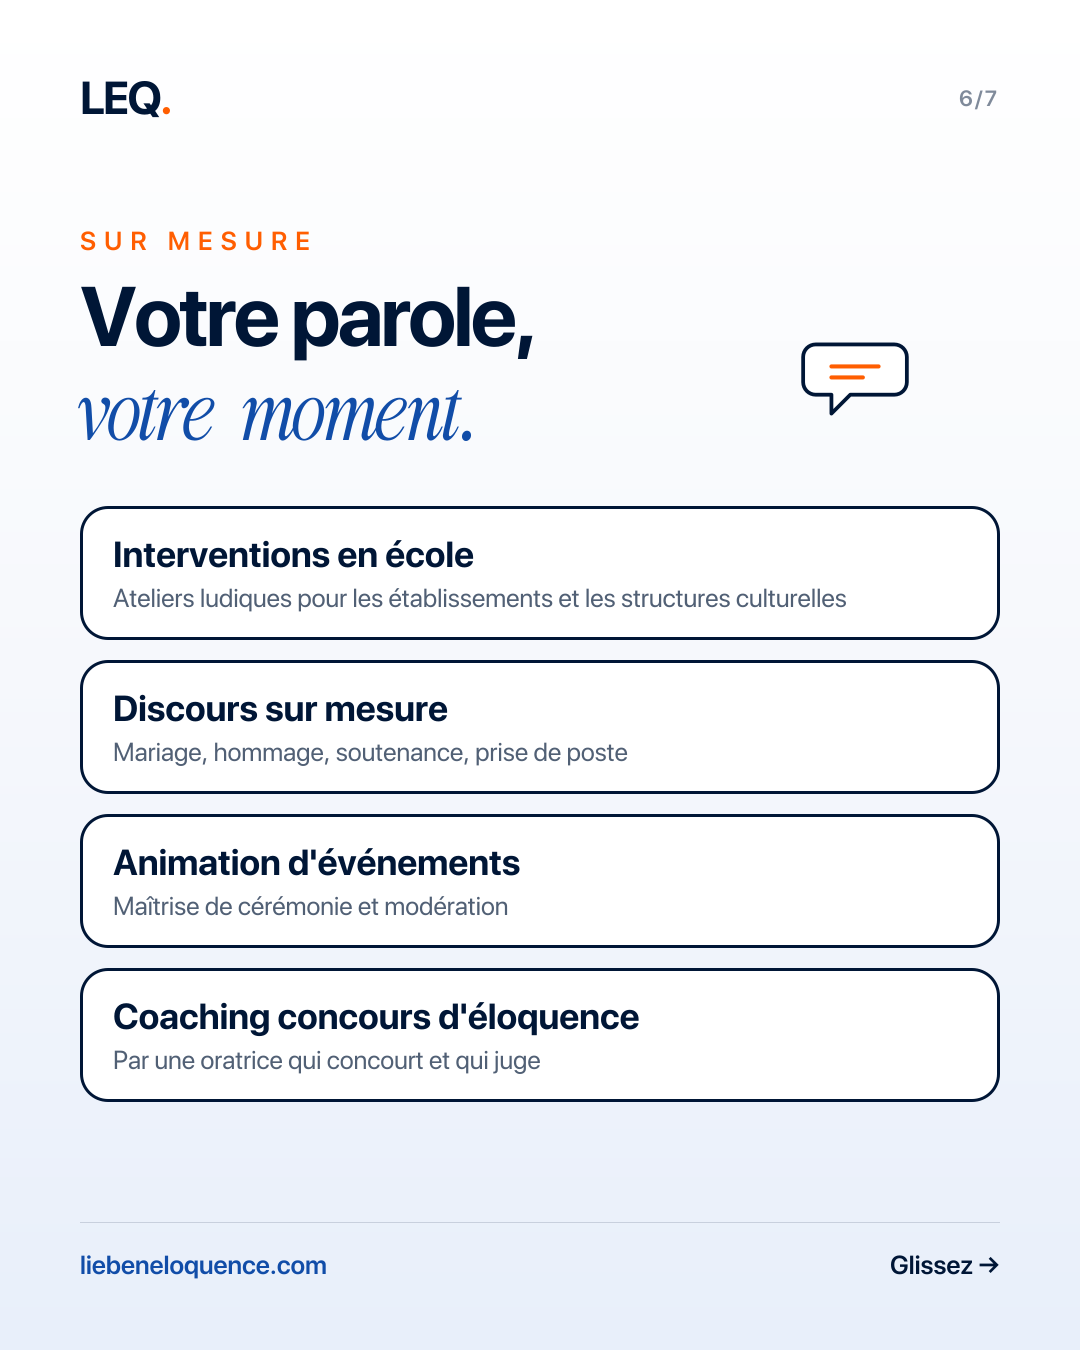
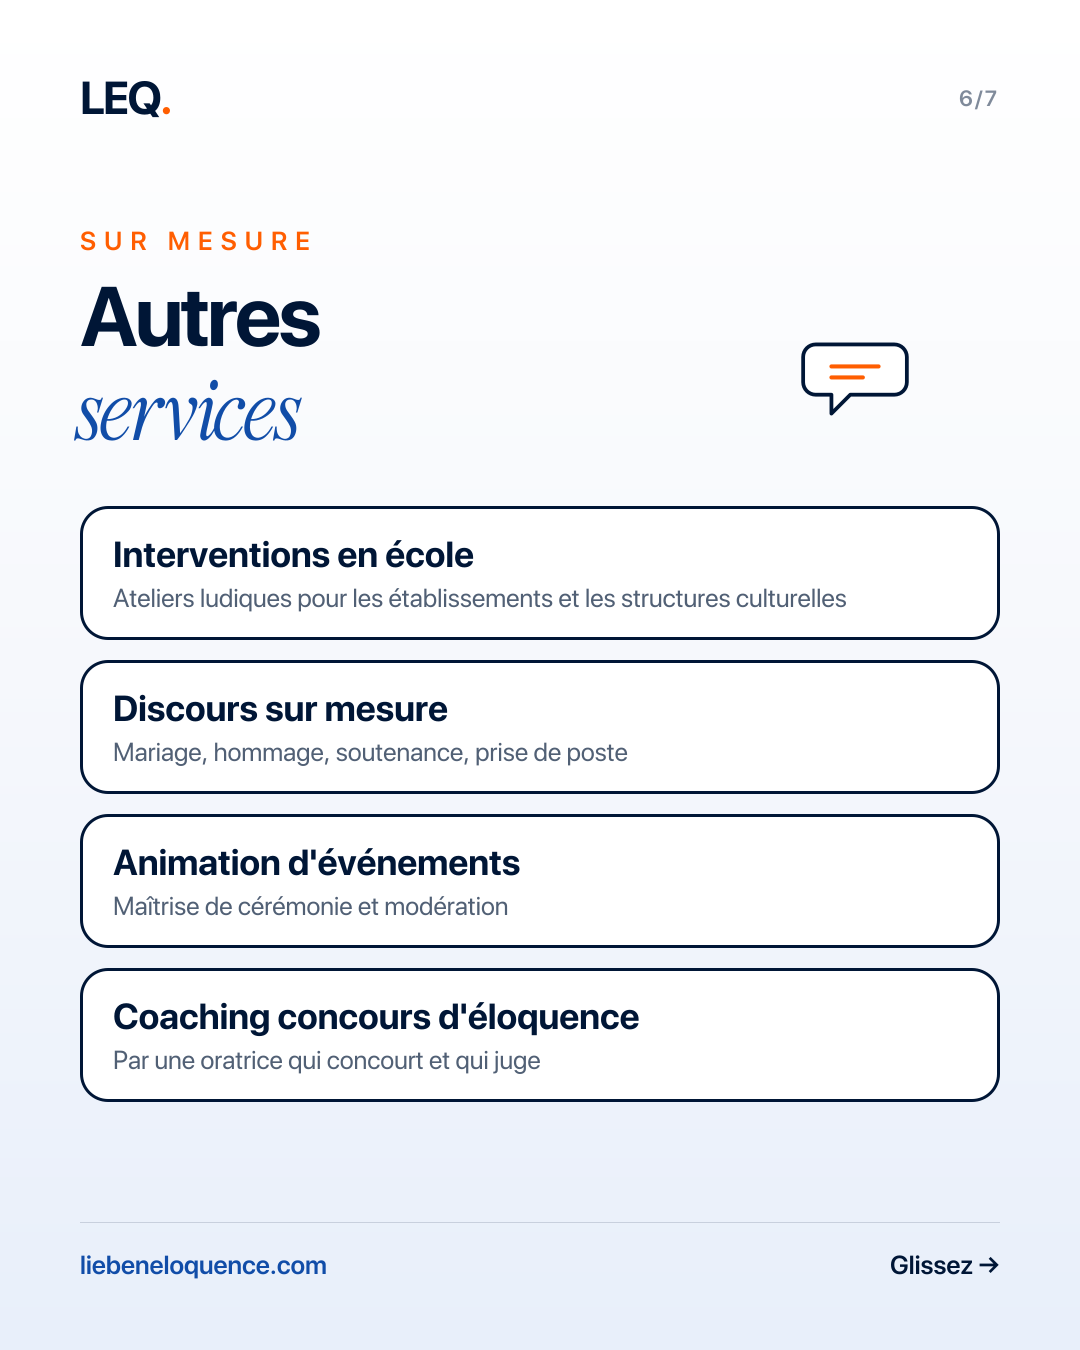
Invitation communauté en bleu et plus sobre (micro orange), section « Autres services », carrousel mis à jour

Changed region(s): [[0.0611, 0.1867, 0.4889, 0.3422]]

diff --git a/src/components/communaute/CommunityPopup.tsx b/src/components/communaute/CommunityPopup.tsx
@@ -3,7 +3,7 @@
 import Link from "next/link";
 import { usePathname } from "next/navigation";
 import { useEffect, useRef, useState } from "react";
-import { Heart, MicDoodle, Sparkle } from "@/components/ui/Doodles";
+import { MicDoodle } from "@/components/ui/Doodles";
 
 /* Invitation à la communauté, une fois par visite :
    1. carte au centre de l'écran, fond flouté (2,5 s après l'arrivée) ;
@@ -82,17 +82,17 @@ export function CommunityPopup({ price, availability }: { price: string; availab
         <button
           type="button"
           onClick={() => setView("open")}
-          className="flex cursor-pointer items-center gap-2 rounded-full border-2 border-ink bg-white py-2 pr-4 pl-2.5 text-[14px] font-bold text-ink"
-          style={{ boxShadow: "4px 4px 0 #FFBD59" }}
+          className="flex cursor-pointer items-center gap-2 rounded-full border-0 py-2 pr-4 pl-2.5 text-[14px] font-bold text-white"
+          style={{ background: "linear-gradient(165deg,#0B3070,#114DA8)", boxShadow: "0 14px 30px -12px rgba(0,22,54,.7)" }}
         >
-          <MicDoodle width={22} height={28} stand="#FF5E01" />
+          <MicDoodle width={22} height={28} body="#FF5E01" stand="#FF5E01" />
           Rejoindre la <span className="serif font-normal text-orange">LEQ&apos;FAM</span>
         </button>
         <button
           type="button"
           onClick={finish}
           aria-label="Masquer l'invitation"
-          className="-ml-2 grid h-7 w-7 -translate-y-4 cursor-pointer place-items-center rounded-full border-0 bg-ink text-white"
+          className="-ml-2 grid h-7 w-7 -translate-y-4 cursor-pointer place-items-center rounded-full border-2 border-white bg-ink text-white"
         >
           <svg width="12" height="12" viewBox="0 0 24 24" fill="none" stroke="currentColor" strokeWidth="2.6" strokeLinecap="round" aria-hidden="true">
             <path d="M18 6 6 18M6 6l12 12" />
@@ -109,29 +109,27 @@ export function CommunityPopup({ price, availability }: { price: string; availab
       onClick={(e) => e.target === e.currentTarget && dialog.current?.close()}
       className="community-popup m-auto w-[min(420px,calc(100vw-40px))] overflow-visible border-0 bg-transparent p-0"
     >
-      <div className="relative rounded-[28px] bg-white px-7 pt-9 pb-7 text-center text-ink" style={{ boxShadow: "8px 8px 0 #FFBD59, 0 40px 80px -30px rgba(0,0,0,.6)", border: "2px solid #001636" }}>
-        <MicDoodle className="bob absolute" width={62} height={80} stand="#FF5E01" style={{ top: -52, left: "50%", marginLeft: -31 }} />
-        <Sparkle className="wiggle absolute" size={36} style={{ top: -14, left: 24 }} />
-        <Heart className="wiggle absolute" size={28} style={{ bottom: -10, right: 30 }} />
-        <button type="button" onClick={() => dialog.current?.close()} aria-label="Fermer" className="absolute top-3.5 right-3.5 grid h-9 w-9 cursor-pointer place-items-center rounded-full border-0 bg-cloud text-ink hover:bg-ink hover:text-white">
+      <div className="relative rounded-[28px] px-7 pt-10 pb-7 text-center text-white" style={{ background: "linear-gradient(165deg,#0B3070 0%,#114DA8 100%)", boxShadow: "0 40px 80px -30px rgba(0,0,0,.6)", border: "1px solid rgba(255,255,255,.18)" }}>
+        <MicDoodle className="absolute" width={58} height={74} body="#FF5E01" stand="#FF5E01" style={{ top: -46, left: "50%", marginLeft: -29 }} />
+        <button type="button" onClick={() => dialog.current?.close()} aria-label="Fermer" className="absolute top-3.5 right-3.5 grid h-9 w-9 cursor-pointer place-items-center rounded-full border-0 bg-white/12 text-white hover:bg-white/25 focus-visible:outline-white">
           <svg width="16" height="16" viewBox="0 0 24 24" fill="none" stroke="currentColor" strokeWidth="2.2" strokeLinecap="round" aria-hidden="true">
             <path d="M18 6 6 18M6 6l12 12" />
           </svg>
         </button>
 
         {availability && (
-          <span className="inline-block rounded-full bg-orange px-3 py-1 text-[10.5px] font-bold tracking-[.14em] text-white uppercase">{availability}</span>
+          <span className="inline-block rounded-full bg-white/12 px-3 py-1 text-[10.5px] font-bold tracking-[.14em] text-white uppercase">{availability}</span>
         )}
         <p id="invitation-communaute" className="mt-3 mb-0 text-[28px] leading-[1.1] font-bold tracking-[-0.03em]">
           Rejoignez la <span className="serif font-normal text-orange">LEQ&apos;FAM</span> !
         </p>
-        <p className="mx-auto mt-2.5 mb-0 max-w-[300px] text-[15px] leading-[1.55] text-ink/70">
+        <p className="mx-auto mt-2.5 mb-0 max-w-[300px] text-[15px] leading-[1.55] text-white/80">
           La communauté pour s&apos;entraîner à l&apos;oral ensemble, pour {price} par mois.
         </p>
-        <Link href={href} onClick={finish} className="btn btn-p mt-5 w-full">
+        <Link href={href} onClick={finish} className="btn mt-5 w-full bg-orange text-white hover:brightness-110">
           {availability ? "Je m'inscris sur la liste" : "Je découvre"}
         </Link>
-        <button type="button" onClick={() => dialog.current?.close()} className="mt-3 cursor-pointer border-0 bg-transparent text-[13.5px] text-ink/55 underline hover:text-ink">
+        <button type="button" onClick={() => dialog.current?.close()} className="mt-3 cursor-pointer border-0 bg-transparent text-[13.5px] text-white/60 underline hover:text-white">
           Plus tard
         </button>
       </div>

diff --git a/src/components/ui/Doodles.tsx b/src/components/ui/Doodles.tsx
@@ -95,16 +95,18 @@ export function MicDoodle({
   width = 70,
   height = 90,
   stand = "#fff",
+  body = "#fff",
 }: {
   className?: string;
   style?: CSSProperties;
   width?: number;
   height?: number;
   stand?: string;
+  body?: string;
 }) {
   return (
     <svg className={className} style={style} width={width} height={height} viewBox="0 0 70 90" fill="none" aria-hidden="true">
-      <rect x="20" y="4" width="30" height="44" rx="15" fill="#fff" stroke="#001636" strokeWidth="2.5" />
+      <rect x="20" y="4" width="30" height="44" rx="15" fill={body} stroke="#001636" strokeWidth="2.5" />
       <path d="M24 18h22M24 26h22M24 34h22" stroke="#001636" strokeWidth="2" strokeLinecap="round" />
       <path d="M12 36c0 14 10 24 23 24s23-10 23-24M35 60v18M24 84h22" stroke={stand} strokeWidth="3" strokeLinecap="round" />
     </svg>

diff --git a/src/app/autres-services/page.tsx b/src/app/autres-services/page.tsx
@@ -119,7 +119,7 @@ export default async function AutresServicesPage() {
             <div className="relative text-center">
               <p className="eyebrow" style={{ color: "#114DA8" }}>Sur mesure</p>
               <h2 className="h2">
-                Votre parole, <span className="serif text-royal">votre moment.</span>
+                Autres <span className="serif text-royal">services</span>
               </h2>
               <Star className="wiggle hide-sm absolute" style={{ right: "18%", top: 10 }} />
             </div>
